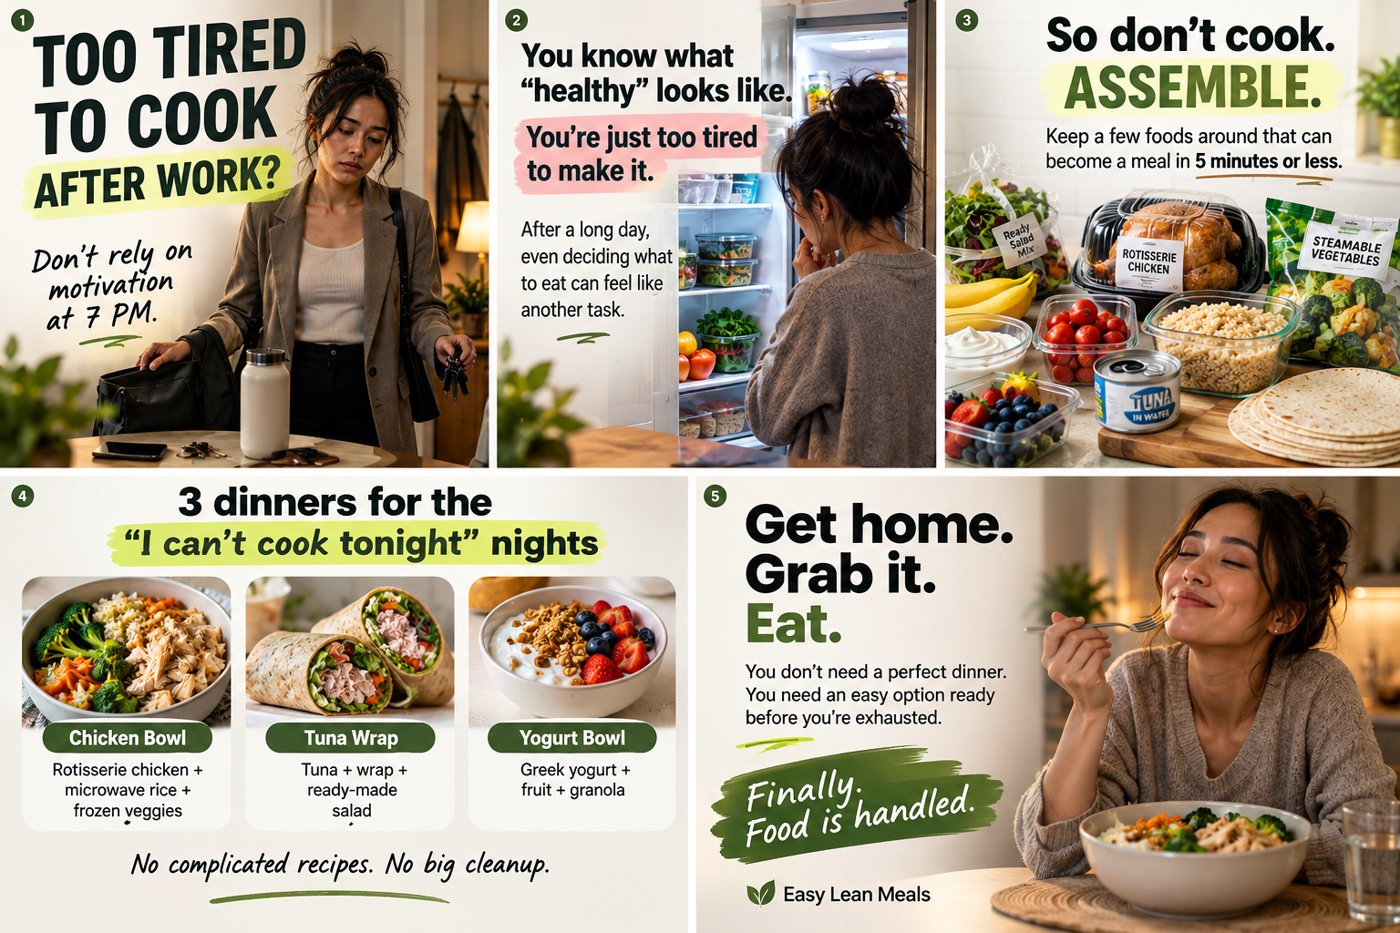
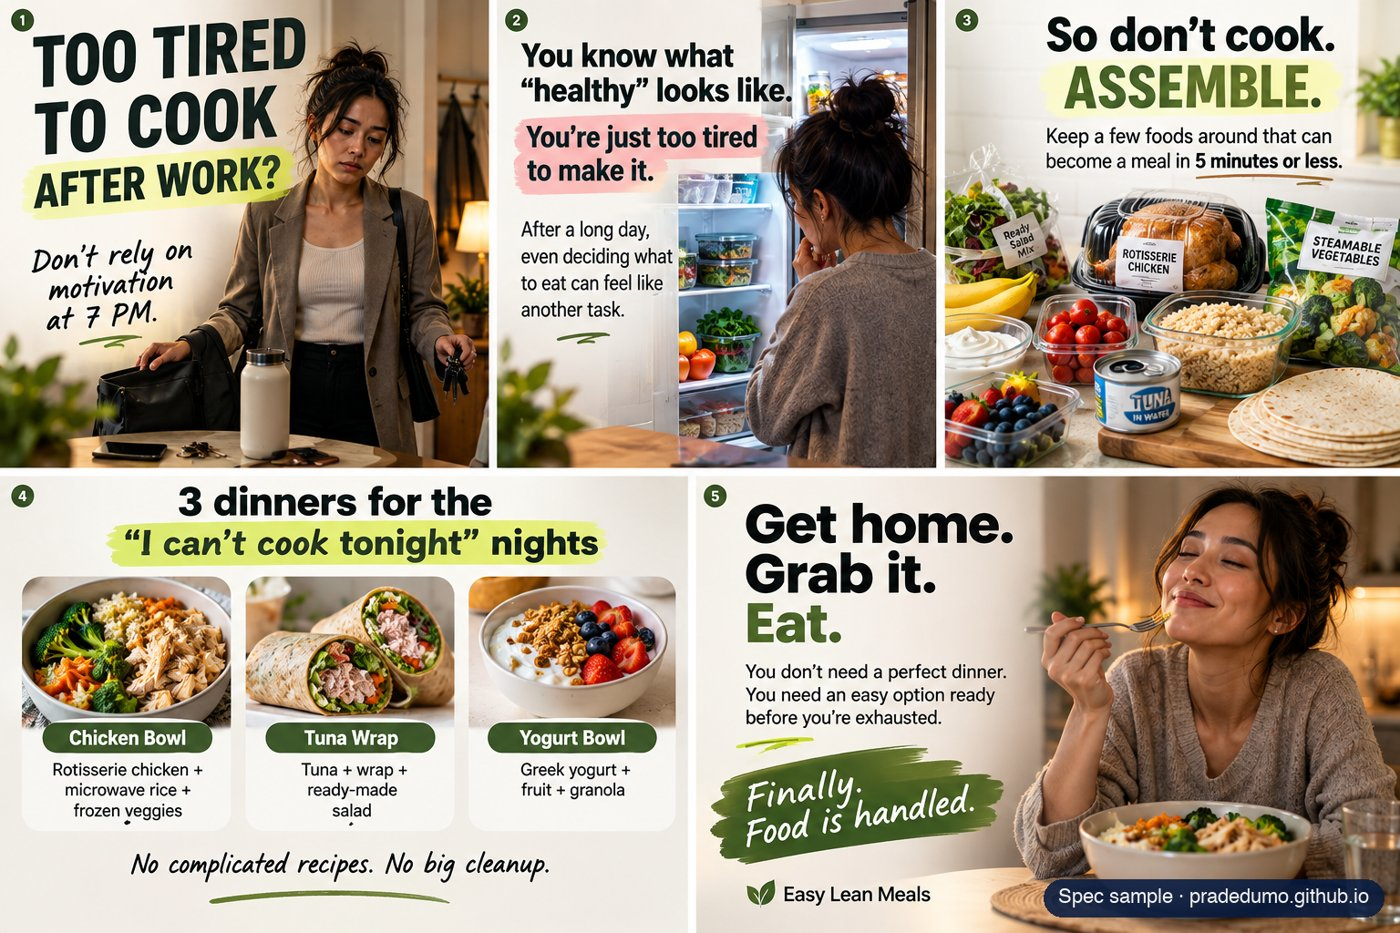
Add #lean / #ampx deep links and watermark the Easy Lean Meals image
- https://pradedumo.github.io/#lean now opens the Easy Lean Meals
  lightbox directly (and #ampx for the AmpX spec). Generic: any
  [data-portfolio-image] tile with an id gets a deep link. Handles
  page load and hashchange; closing the lightbox clears only a
  spec-tile hash, so nav anchors like #work are left alone.
- Watermarked both Easy Lean Meals images, regenerated from the
  original PNG: full carousel gets a 'Spec sample · pradedumo.github.io'
  pill bottom-right, placed clear of the ad's own 'Easy Lean Meals'
  brand mark; the panel-1 thumbnail gets a small corner mark. The bare
  image URL now carries attribution when shared on its own.

Changed region(s): [[0.7371, 0.9325, 1.0, 0.9946]]

diff --git a/js/ai-gallery.js b/js/ai-gallery.js
@@ -45,6 +45,22 @@
     modal.setAttribute("aria-hidden", "true");
     document.body.classList.remove("image-modal-open");
     frame.removeAttribute("src");
+    // Clear a deep-link hash (e.g. #lean) so closing doesn't leave it stuck.
+    const linked = document.getElementById(location.hash.slice(1));
+    if (linked && linked.dataset.portfolioImage === "true") {
+      history.replaceState(null, "", location.pathname + location.search);
+    }
+  }
+
+  // Deep links: https://pradedumo.github.io/#lean opens that spec tile's
+  // lightbox directly. Any [data-portfolio-image] tile with an id works.
+  function openFromHash() {
+    const id = decodeURIComponent(location.hash.slice(1));
+    if (!id) return;
+    const el = document.getElementById(id);
+    if (!el || el.dataset.portfolioImage !== "true") return;
+    el.scrollIntoView({ block: "center" });
+    openImage(el);
   }
 
   document.querySelectorAll('[data-portfolio-image="true"]').forEach((el) => {
@@ -61,4 +77,7 @@
   document.addEventListener("keydown", (e) => {
     if (e.key === "Escape" && !modal.hidden) closeImage();
   });
+
+  addEventListener("hashchange", openFromHash);
+  openFromHash();
 })();

diff --git a/index.html b/index.html
@@ -1803,6 +1803,7 @@ NEGATIVE: no subtitles, no on-screen text, no background music, no extra people,
 
           <!-- 04 — SPEC WORK: AmpX before/after (unsolicited sample) -->
           <a
+            id="ampx"
             class="ai-gallery-item reveal"
             data-gallery-type="ugc spec"
             data-portfolio-image="true"
@@ -1834,6 +1835,7 @@ NEGATIVE: no subtitles, no on-screen text, no background music, no extra people,
 
           <!-- 04b — SPEC WORK: Easy Lean Meals static ad carousel (unsolicited sample) -->
           <a
+            id="lean"
             class="ai-gallery-item reveal"
             data-gallery-type="static spec"
             data-portfolio-image="true"
